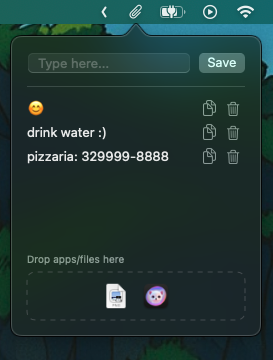
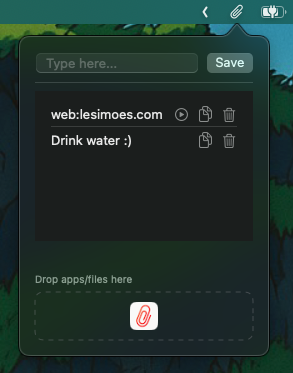
change to v2

Changed region(s): [[0.0, 0.0, 1.0, 1.0], [0.9963, 0.7028, 1.0, 0.7333]]

diff --git a/src/app/page.tsx b/src/app/page.tsx
@@ -9,6 +9,9 @@ const Highlight = ({ children }: { children: string }) => {
 };
 
 export default function Home() {
+  const appLink =
+    'https://github.com/lesimoes/clip-save/releases/download/v2.0.0/clip-save.zip';
+
   return (
     <main className="bg-white text-black min-h-screen font-sans">
       <header className="fixed top-0 left-0 right-0 z-50 flex items-center justify-between px-6 md:px-12 py-4">
@@ -22,7 +25,7 @@ export default function Home() {
           ClipSave
         </div>
         <a
-          href="https://github.com/lesimoes/clip-save/releases/download/v1.0.1/clip-save.zip"
+          href={appLink}
           target="_blank"
           rel="noopener noreferrer"
           className="border border-[#F2502F] text-[#F2502F] px-4 py-2 rounded-full text-sm hover:bg-[#F2502F] hover:text-white transition-all"
@@ -53,7 +56,7 @@ export default function Home() {
           initial={{ opacity: 0 }}
           animate={{ opacity: 1 }}
           transition={{ delay: 0.8, duration: 0.6 }}
-          href="https://github.com/lesimoes/clip-save/releases/download/v1.0.1/clip-save.zip"
+          href={appLink}
           target="_blank"
           rel="noopener noreferrer"
           className="mt-10 px-6 py-3 border border-[#F2502F] text-[#F2502F] rounded-full text-lg hover:bg-[#F2502F] hover:text-white transition-all"
@@ -71,11 +74,11 @@ export default function Home() {
           className="w-full text-center md:w-1/2"
         >
           <h2 className="text-3xl md:text-5xl font-semibold mb-6">
-            Quick access to <Highlight>texts and shortcuts</Highlight>.
+            Quick access to <Highlight>texts and web pages</Highlight>
           </h2>
           <p className="text-lg text-gray-600">
-            Save texts and copy them to your clipboard. Save your most used apps
-            and files.
+            Save texts and copy them to your clipboard. You can save web page
+            link and open it.
           </p>
         </motion.div>
         <motion.div
@@ -87,6 +90,38 @@ export default function Home() {
         >
           <Image
             src="/screenshot.png"
+            alt="Screenshot do ClipSave"
+            width={800}
+            height={100}
+            className="rounded-xl shadow-md w-[300px]"
+          />
+        </motion.div>
+      </section>
+
+      <section className="flex flex-col  items-center justify-between px-6 md:px-12 py-24 gap-12">
+        <motion.div
+          initial={{ opacity: 0, x: -40 }}
+          whileInView={{ opacity: 1, x: 0 }}
+          viewport={{ once: true }}
+          transition={{ duration: 0.8 }}
+          className="w-full text-center md:w-1/2"
+        >
+          <h2 className="text-3xl md:text-5xl font-semibold mb-6">
+            Quick access to <Highlight>files and applications</Highlight>
+          </h2>
+          <p className="text-lg text-gray-600">
+            Create shortcuts to apps or files and open their folders directly.
+          </p>
+        </motion.div>
+        <motion.div
+          initial={{ opacity: 0, x: 40 }}
+          whileInView={{ opacity: 1, x: 0 }}
+          viewport={{ once: true }}
+          transition={{ duration: 0.8 }}
+          className="md:w-1/2 flex justify-center"
+        >
+          <Image
+            src="/screenshot2.png"
             alt="Screenshot do ClipSave"
             width={800}
             height={100}
